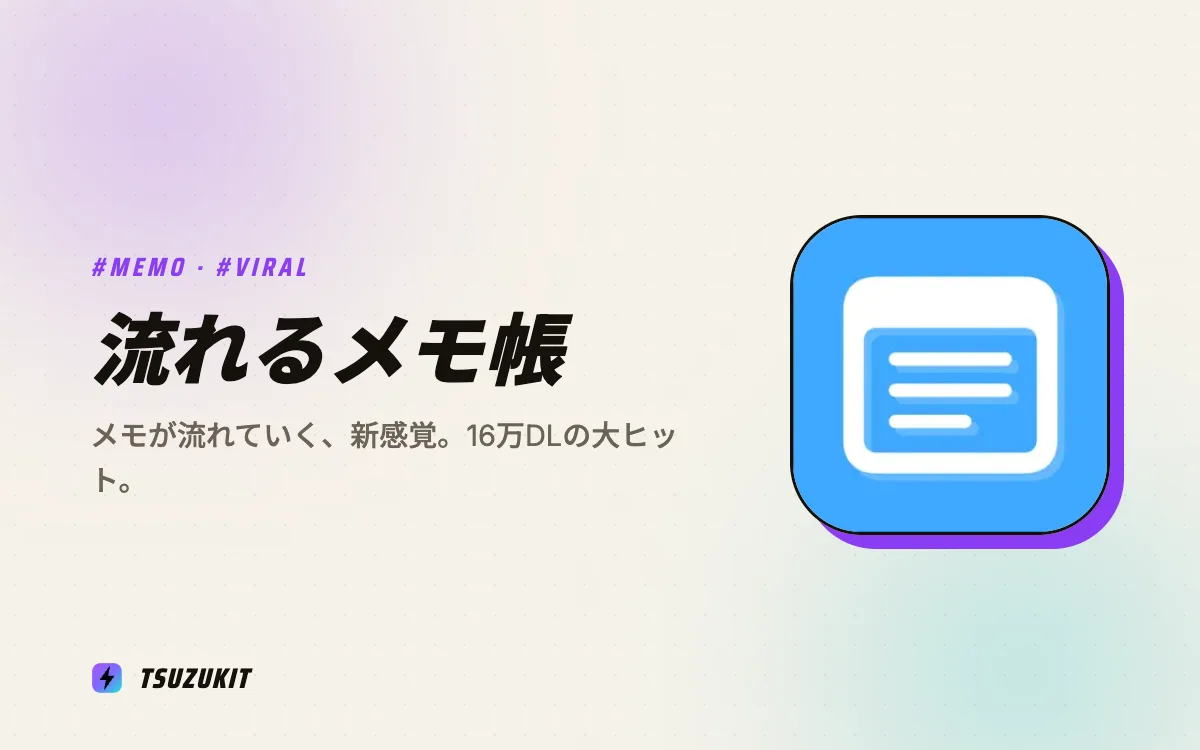
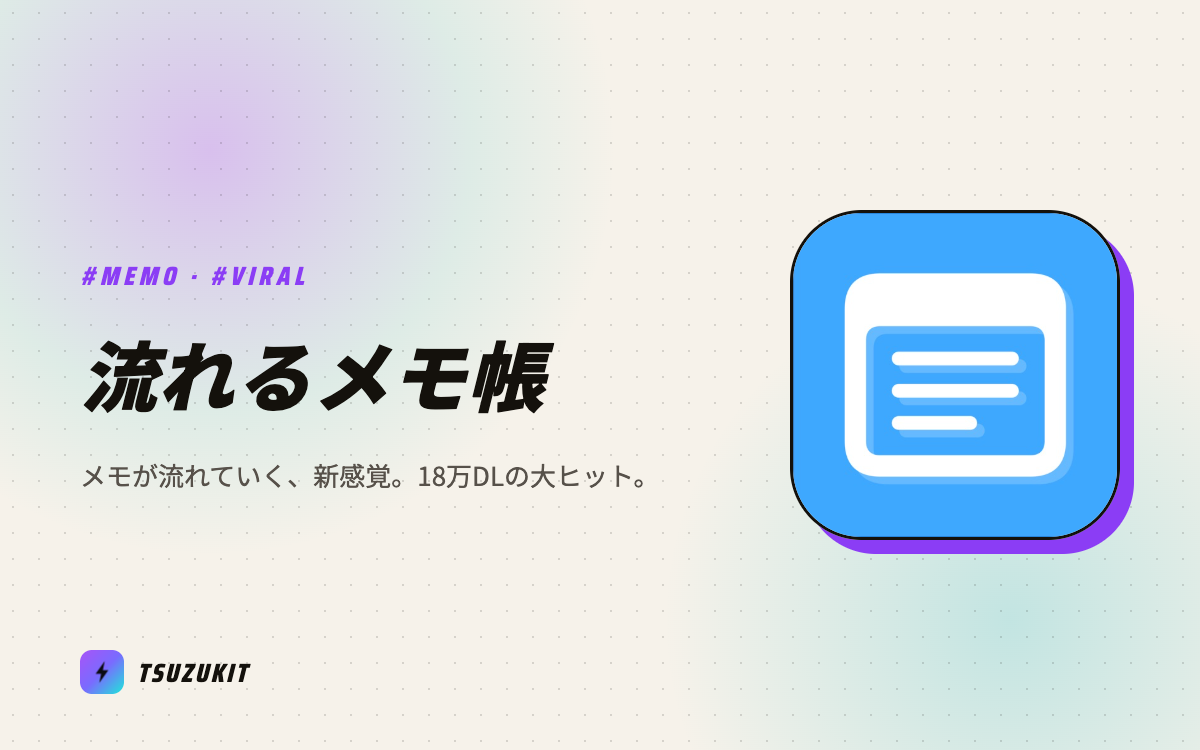
update(top): 代表作をApp Storeの全期間ダウンロード順に入れ替えた
ASCのトレンド（全期間691Kユニット）の順位に合わせて、うんちくん、
流れるメモ帳、旅行思い出マップ、推しアイランドの4本にした。
いつでもタイマーは10位だったため外している。

- 推しアイランドのKV画像を既存と同じ体裁で作成
- 流れるメモ帳のKVは画像内の「16万DL」が数字と合わなくなるので作り直し
- DL数は既存値に直近10ヶ月の新規分を足した値にし、順位と矛盾しないよう揃えた

Claude-Session: https://claude.ai/code/session_01XebLwtpwFTyp8AE6GMw49z

diff --git a/index.html b/index.html
@@ -193,56 +193,12 @@
                 </div>
 
                 <div class="works-grid">
-                    <!-- 旅行思い出マップ -->
-                    <a href="/portfolio/" class="work-item">
-                        <div class="work-thumb work-thumb--kv">
-                            <img src="assets/images/works/travel-memory-map.webp"
-                                alt="旅行思い出マップ">
-                            <span class="work-badge">代表作</span>
-                        </div>
-                        <div class="work-content">
-                            <h3 class="work-title">旅行思い出マップ</h3>
-                            <div class="work-stats">
-                                <div class="work-stat">
-                                    <span class="work-stat-value">170,000+</span>
-                                    <span class="work-stat-label">ダウンロード</span>
-                                </div>
-                                <div class="work-stat">
-                                    <span class="work-stat-value">★4.6</span>
-                                    <span class="work-stat-label">評価</span>
-                                </div>
-                            </div>
-                        </div>
-                    </a>
-
-                    <!-- 流れるメモ帳 -->
-                    <a href="/portfolio/" class="work-item">
-                        <div class="work-thumb work-thumb--kv">
-                            <img src="assets/images/works/floating-notepad.webp"
-                                alt="流れるメモ帳">
-                            <span class="work-badge">大ヒット</span>
-                        </div>
-                        <div class="work-content">
-                            <h3 class="work-title">流れるメモ帳</h3>
-                            <div class="work-stats">
-                                <div class="work-stat">
-                                    <span class="work-stat-value">164,000+</span>
-                                    <span class="work-stat-label">ダウンロード</span>
-                                </div>
-                                <div class="work-stat">
-                                    <span class="work-stat-value">便利アプリ</span>
-                                    <span class="work-stat-label">紹介</span>
-                                </div>
-                            </div>
-                        </div>
-                    </a>
-
                     <!-- うんちくん -->
                     <a href="/portfolio/" class="work-item">
                         <div class="work-thumb work-thumb--kv">
                             <img src="assets/images/works/unchikun.webp"
-                                alt="うんちくん うんち記録&共有">
-                            <span class="work-badge">急上昇</span>
+                                alt="うんちくん AI健康記録&うんトモ">
+                            <span class="work-badge">代表作</span>
                         </div>
                         <div class="work-content">
                             <h3 class="work-title">うんちくん</h3>
@@ -259,23 +215,67 @@
                         </div>
                     </a>
 
-                    <!-- いつでもタイマー -->
+                    <!-- 流れるメモ帳 -->
                     <a href="/portfolio/" class="work-item">
                         <div class="work-thumb work-thumb--kv">
-                            <img src="assets/images/works/always-on-timer.webp"
-                                alt="いつでもタイマー">
-                            <span class="work-badge">受賞</span>
+                            <img src="assets/images/works/floating-notepad.webp"
+                                alt="流れるメモ帳">
+                            <span class="work-badge">大ヒット</span>
                         </div>
                         <div class="work-content">
-                            <h3 class="work-title">いつでもタイマー</h3>
+                            <h3 class="work-title">流れるメモ帳</h3>
                             <div class="work-stats">
                                 <div class="work-stat">
-                                    <span class="work-stat-value">🏆グランプリ</span>
-                                    <span class="work-stat-label">受賞</span>
+                                    <span class="work-stat-value">180,000+</span>
+                                    <span class="work-stat-label">ダウンロード</span>
                                 </div>
                                 <div class="work-stat">
-                                    <span class="work-stat-value">★3.9</span>
+                                    <span class="work-stat-value">便利アプリ</span>
+                                    <span class="work-stat-label">紹介</span>
+                                </div>
+                            </div>
+                        </div>
+                    </a>
+
+                    <!-- 旅行思い出マップ -->
+                    <a href="/portfolio/" class="work-item">
+                        <div class="work-thumb work-thumb--kv">
+                            <img src="assets/images/works/travel-memory-map.webp"
+                                alt="旅行思い出マップ">
+                            <span class="work-badge">ロングセラー</span>
+                        </div>
+                        <div class="work-content">
+                            <h3 class="work-title">旅行思い出マップ</h3>
+                            <div class="work-stats">
+                                <div class="work-stat">
+                                    <span class="work-stat-value">170,000+</span>
+                                    <span class="work-stat-label">ダウンロード</span>
+                                </div>
+                                <div class="work-stat">
+                                    <span class="work-stat-value">★4.6</span>
                                     <span class="work-stat-label">評価</span>
+                                </div>
+                            </div>
+                        </div>
+                    </a>
+
+                    <!-- 推しアイランド -->
+                    <a href="/portfolio/" class="work-item">
+                        <div class="work-thumb work-thumb--kv">
+                            <img src="assets/images/works/oshi-island.webp"
+                                alt="推しアイランド">
+                            <span class="work-badge">バズ</span>
+                        </div>
+                        <div class="work-content">
+                            <h3 class="work-title">推しアイランド</h3>
+                            <div class="work-stats">
+                                <div class="work-stat">
+                                    <span class="work-stat-value">38,000+</span>
+                                    <span class="work-stat-label">ダウンロード</span>
+                                </div>
+                                <div class="work-stat">
+                                    <span class="work-stat-value">60万円</span>
+                                    <span class="work-stat-label">単月売上</span>
                                 </div>
                             </div>
                         </div>
